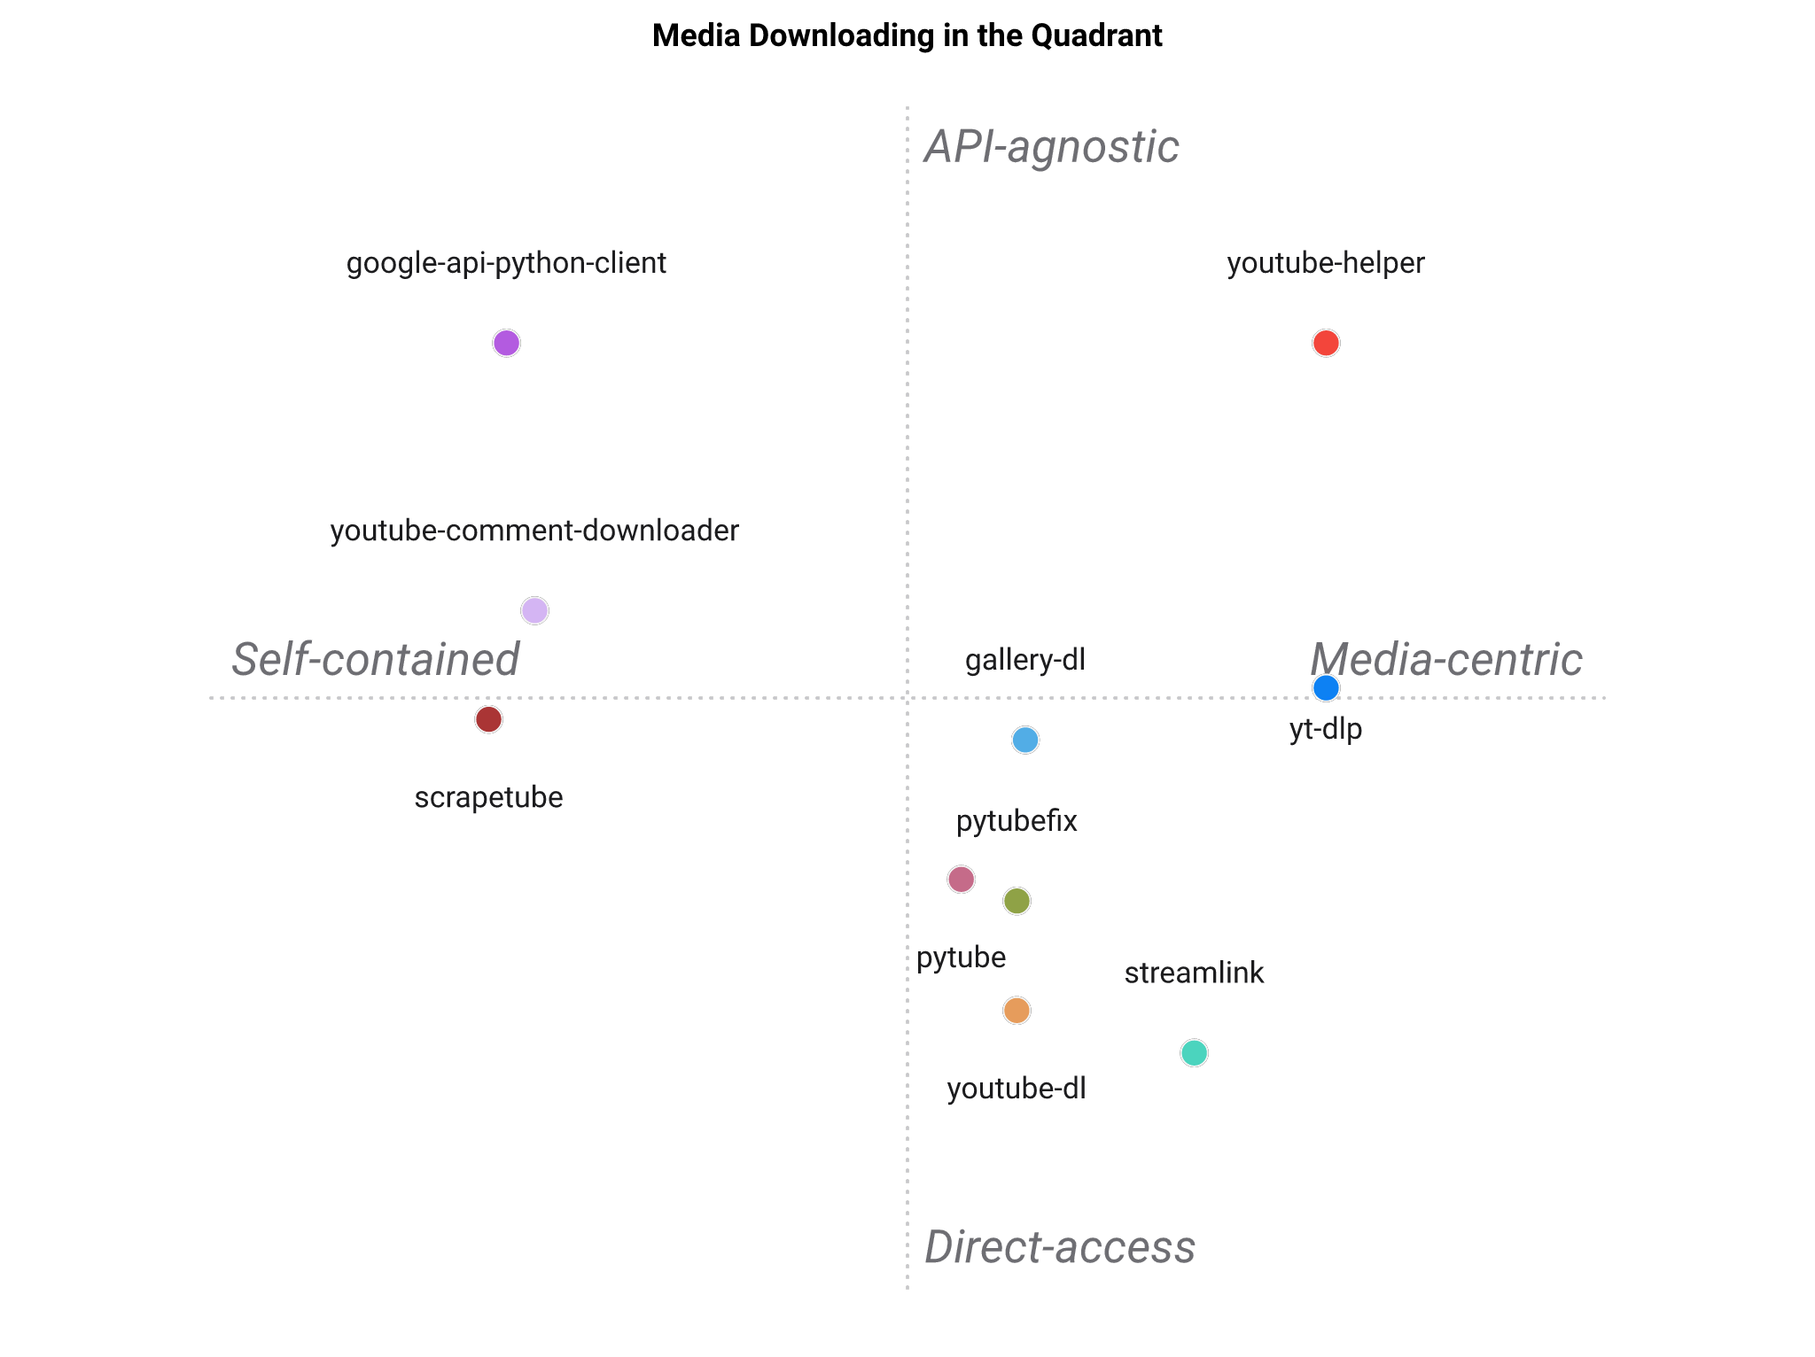
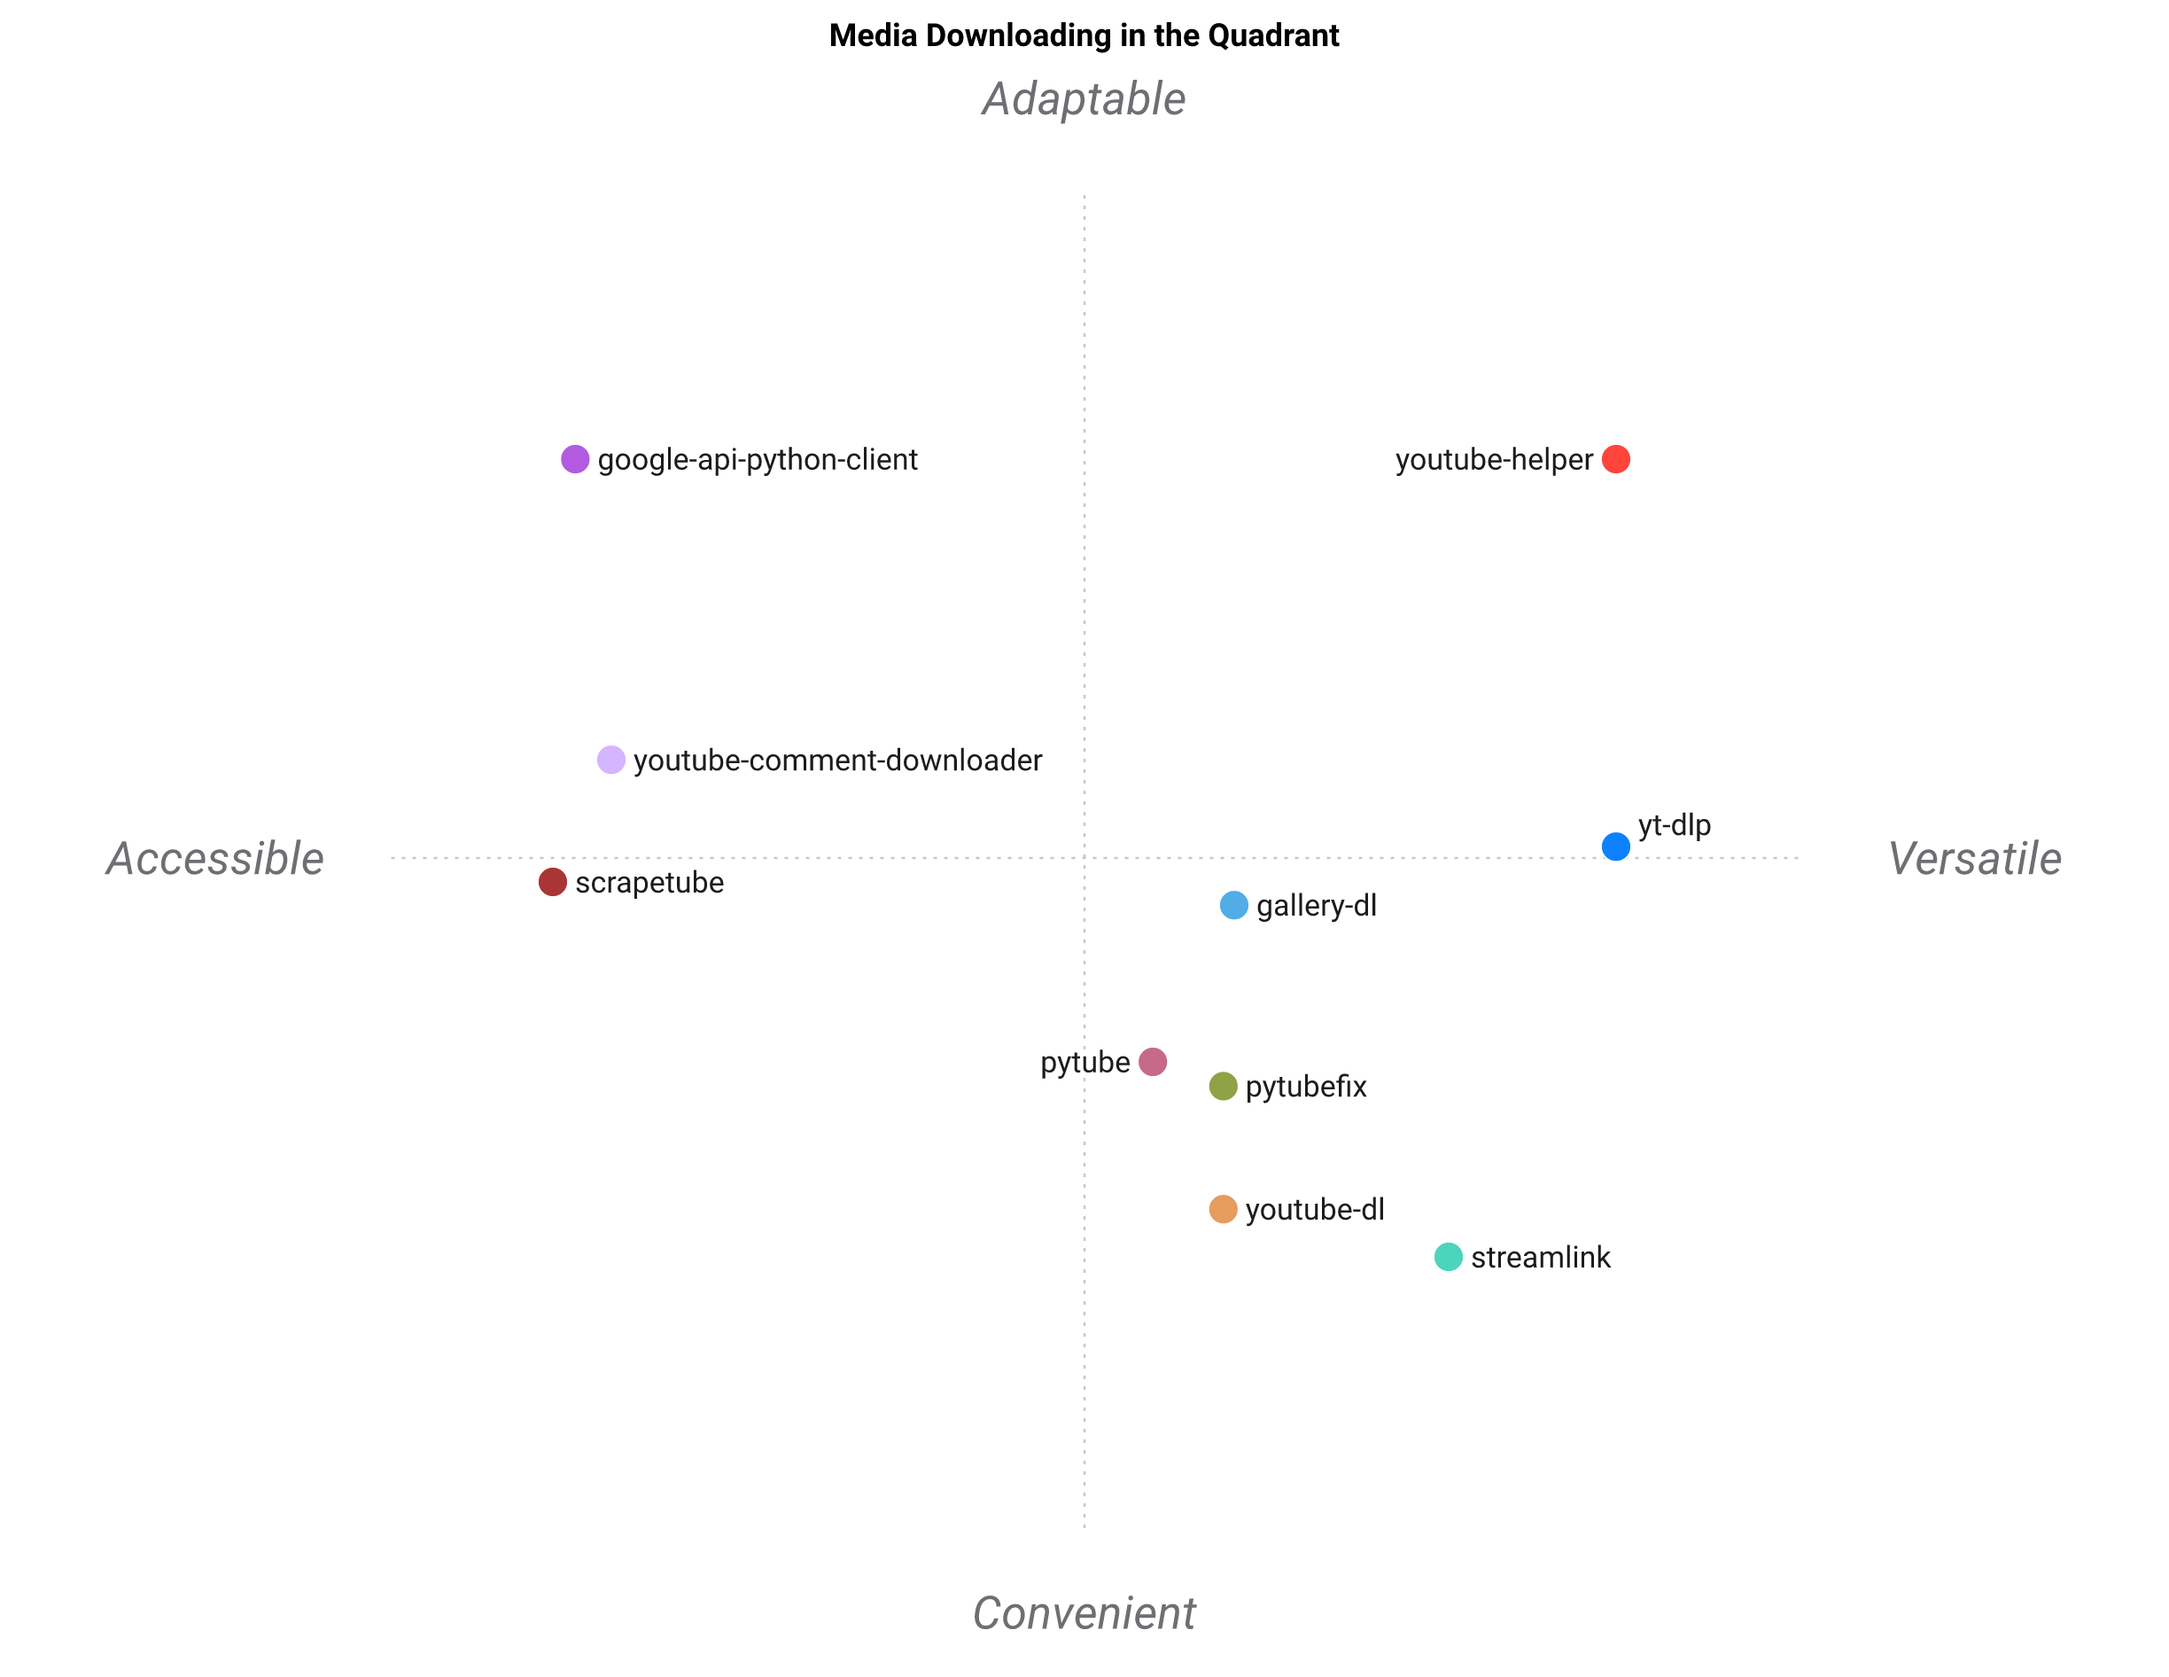
docs: regenerate LANDSCAPE/PAYSAGE positioning figures
Rerun via gen_landscape.py against the current standpoint (Vega retired,
SVG+resvg_py rasterisation pipeline).

diff --git a/PAYSAGE.md b/PAYSAGE.md
@@ -36,7 +36,7 @@ Représentation 2D du tableau ci-dessus.
 
 ![Carte de positionnement](https://raw.githubusercontent.com/warith-harchaoui/youtube-helper/main/assets/paysage.png)
 
-La carte est un résumé en 2D des 8 critères : à lire comme une forme, pas comme un classement. « youtube-helper » se situe dans le coin en haut à droite. Les axes se lisent **Horizontal — Utilisabilité ↔ Polyvalence** et **Vertical — Accessibilité ↔ Intégration**.
+La carte est un résumé en 2D des 8 critères : à lire comme une forme, pas comme un classement. « youtube-helper » se situe dans le coin en haut à droite. Les axes se lisent **Horizontal — Passion ↔ Efficacité** et **Vertical — Accessibilité ↔ Innovation**.
 <!-- FIGURE:END -->
 
 ## Positionnement

diff --git a/LANDSCAPE.md b/LANDSCAPE.md
@@ -35,7 +35,7 @@ score just reflects fit to *this* niche.
 
 ![Positioning map](https://raw.githubusercontent.com/warith-harchaoui/youtube-helper/main/assets/landscape.png)
 
-The map is a 2-D summary of the eight criteria, so read it as a shape, not a scoreboard. `youtube-helper` is at the top-right corner. The axes read **Horizontal — Self-contained ↔ Media-centric** and **Vertical — Direct-access ↔ API-agnostic**.
+The map is a 2-D summary of the eight criteria, so read it as a shape, not a scoreboard. `youtube-helper` is at the top-right corner. The axes read **Horizontal — Accessible ↔ Versatile** and **Vertical — Convenient ↔ Adaptable**.
 <!-- FIGURE:END -->
 
 ## Positioning
